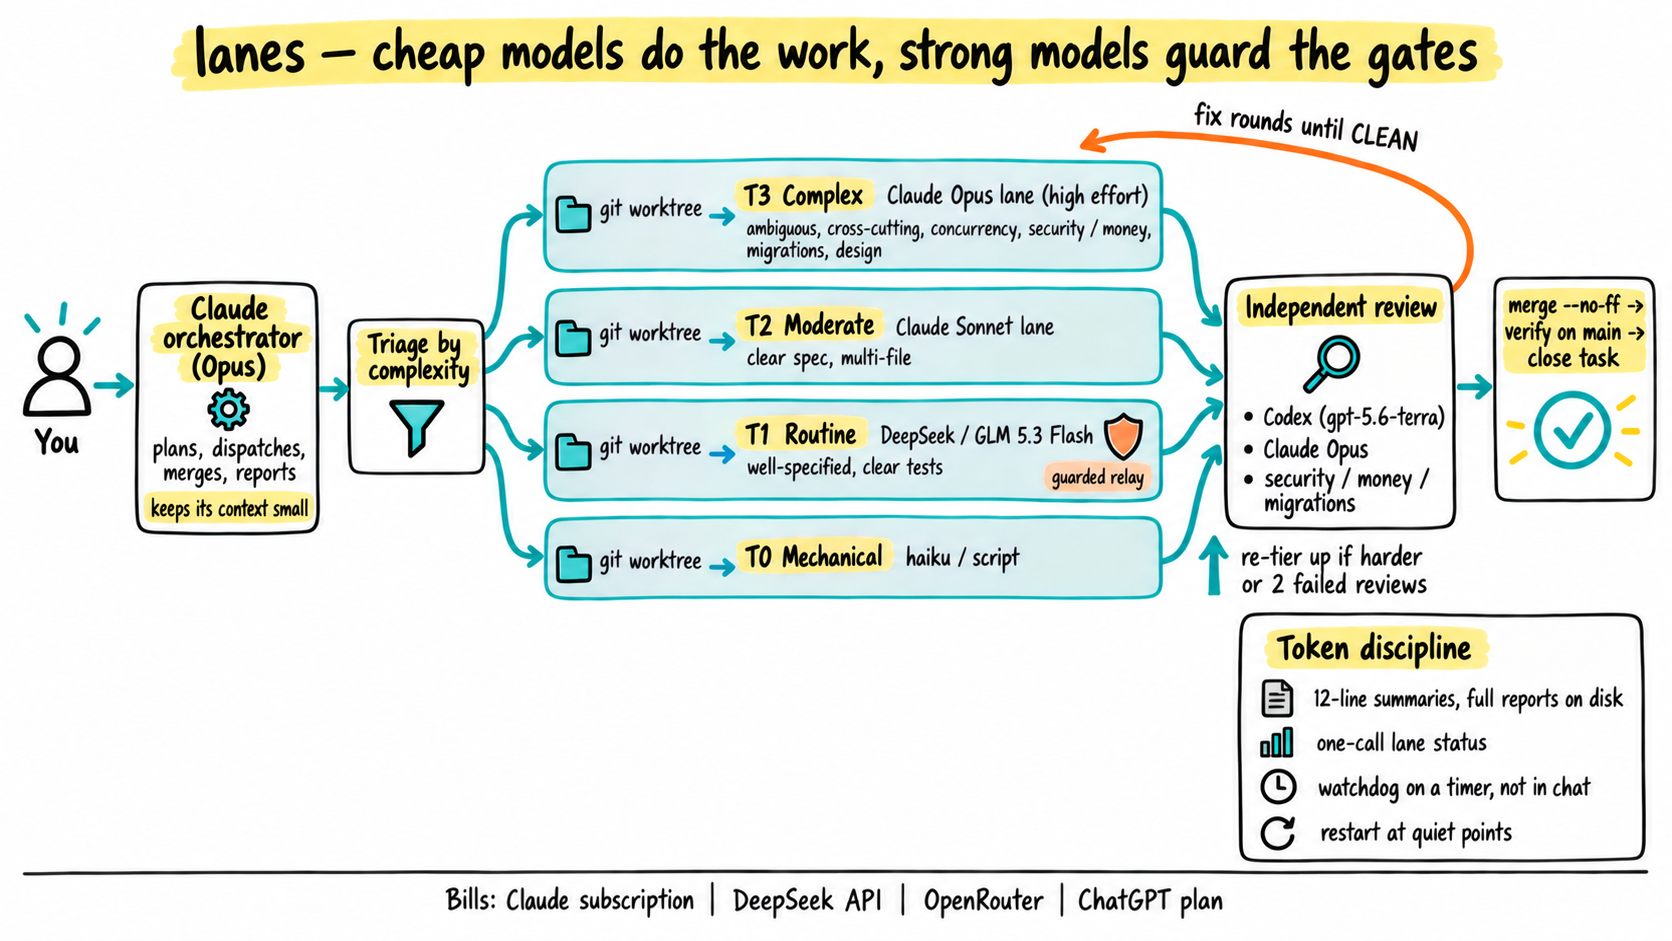
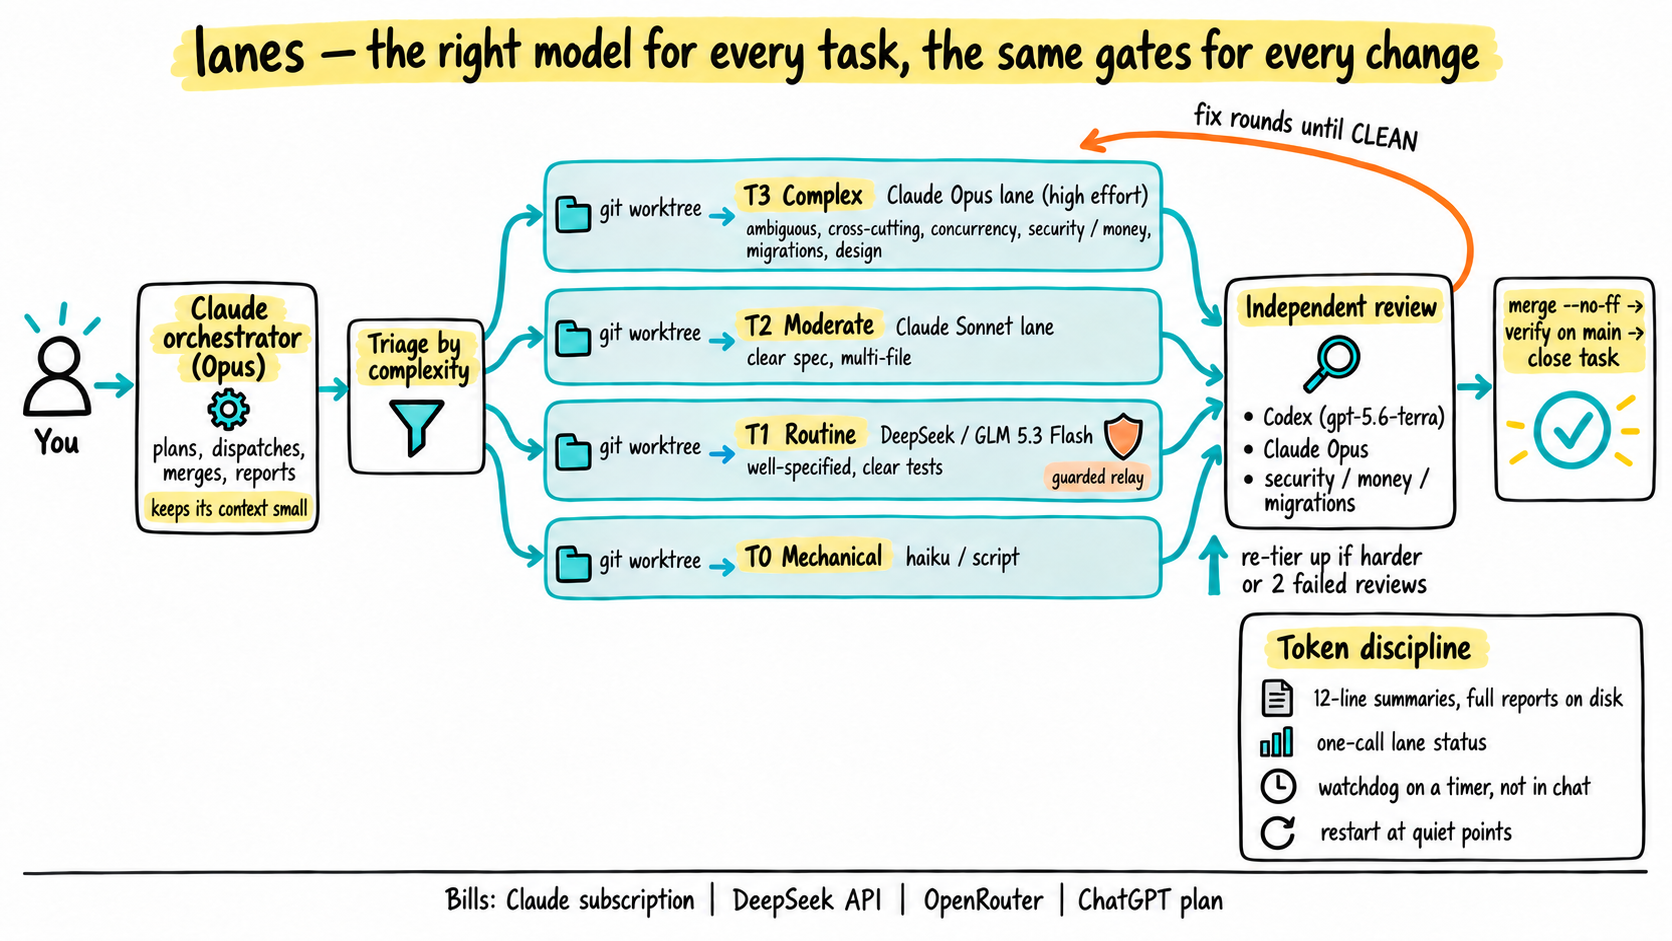
Site copy and infographic title follow complexity triage
Claude-Session: https://claude.ai/code/session_01QzDRDj8uRNkVmM86ry9EHc

diff --git a/docs/index.html b/docs/index.html
@@ -4,9 +4,9 @@
 <meta charset="utf-8">
 <meta name="viewport" content="width=device-width, initial-scale=1">
 <title>lanes · orchestration harness for Claude Code</title>
-<meta name="description" content="lanes is a Claude Code skill that runs your project in parallel git-worktree lanes. Cheap models do the work, strong models guard the gates.">
+<meta name="description" content="lanes is a Claude Code skill that triages every task by complexity and runs your project in parallel git-worktree lanes: Opus for complex work, Sonnet for moderate, DeepSeek or GLM for routine, Codex for reviews.">
 <meta property="og:title" content="lanes: a token-efficient orchestration harness for Claude Code">
-<meta property="og:description" content="Cheap models do the work. Strong models guard the gates.">
+<meta property="og:description" content="The right model for every task. The same gates for every change.">
 <meta property="og:type" content="website">
 <meta property="og:url" content="https://thebpandey.github.io/lanes/">
 <meta property="og:image" content="https://thebpandey.github.io/lanes/lanes-infographic.png">
@@ -260,7 +260,7 @@ footer p{margin:0}
     <div>
       <p class="eyebrow"><span>Claude Code skill</span><span>MIT licensed</span><span>Linux &amp; macOS</span></p>
       <h1 id="hero-title">lanes</h1>
-      <p class="pitch"><span class="w">Cheap models do the work.</span> <span class="g">Strong models guard the gates.</span></p>
+      <p class="pitch"><span class="w">The right model for every task.</span> <span class="g">The same gates for every change.</span></p>
       <p class="lede">A token-efficient orchestration harness that turns one Claude Code session into an orchestrator. It audits a project, even one left half-finished, plans the remaining work, and runs it in parallel lanes: each lane is a git worktree with one agent working in it.</p>
       <div class="ctas">
         <a class="btn btn-primary" href="https://github.com/thebpandey/lanes">
@@ -322,7 +322,7 @@ footer p{margin:0}
 
     <ul class="pillars">
       <li style="--c:var(--work)"><h3>Lanes are worktrees</h3><p>Each lane is a git worktree with one agent in it. Lanes run in parallel, up to a cap you choose (default 6 concurrent agents, reviews included).</p></li>
-      <li style="--c:var(--review)"><h3>Cheapest capable model</h3><p>Every job goes to the cheapest model that can do it well: Each task is triaged by complexity first: Opus for complex work from the start, Sonnet for moderate work, DeepSeek or GLM for routine work, and Codex for routine reviews.</p></li>
+      <li style="--c:var(--review)"><h3>Triage by complexity</h3><p>Every task gets a tier before dispatch, and the tier picks the model from the start: Opus for complex work, Sonnet for moderate work, DeepSeek or GLM for routine work, and Codex for routine reviews. Tasks only ever move up a tier.</p></li>
       <li style="--c:var(--guard)"><h3>Gates don't change</h3><p>Every change gets an independent review before merge, the author never reviews its own work, and merges are verified on the main branch.</p></li>
     </ul>
 
@@ -330,7 +330,7 @@ footer p{margin:0}
       <div>
         <h3>Per-task flow</h3>
         <ol class="flow">
-          <li><span><strong>Dev in a worktree</strong>, by the routed agent.</span></li>
+          <li><span><strong>Triage</strong> the task into a tier, then <strong>dev in a worktree</strong> with that tier's agent.</span></li>
           <li class="gate-step"><span><strong>Independent review.</strong> The reviewer is never the author.</span></li>
           <li class="gate-step"><span><strong>Fix rounds</strong> loop until the review is CLEAN.</span></li>
           <li><span><strong><code>git merge --no-ff</code></strong> into the main branch.</span></li>
@@ -340,9 +340,9 @@ footer p{margin:0}
         </ol>
       </div>
       <div class="aside">
-        <h3>Why the relay design</h3>
+        <h3>Why the relay design (T1 lanes)</h3>
         <p>A Claude Code subagent file can't point at another provider: it has no <code>baseUrl</code> field, and <code>model</code> only takes Claude models.</p>
-        <p>So each external model runs as a separate headless Claude Code process pointed at that provider's Anthropic-compatible API (<code>claude-via &lt;provider&gt;</code>). A small guarded relay subagent hands tasks to it.</p>
+        <p>So each external model (DeepSeek, GLM) runs as a separate headless Claude Code process pointed at that provider's Anthropic-compatible API (<code>claude-via &lt;provider&gt;</code>). A small guarded relay subagent hands tasks to it.</p>
         <p>A <code>PreToolUse</code> hook (<code>relay-guard</code>) blocks every command except the relay itself; without it, the small relay model does the task itself instead of delegating.</p>
         <p>Every run leaves a job record with the model that actually did the work.</p>
       </div>
@@ -412,18 +412,18 @@ footer p{margin:0}
     <div class="code">
       <div class="code-head"><span>bash · install</span><button class="copy" type="button" aria-label="Copy install commands">Copy</button></div>
 <pre><code>git clone https://github.com/thebpandey/lanes ~/.claude/skills/lanes
-bash ~/.claude/skills/lanes/install.sh            <span class="c"># installs relays, configs, and the deepseek/glm/codex subagents</span>
+bash ~/.claude/skills/lanes/install.sh            <span class="c"># installs relays, configs, and the opus-lane/sonnet-lane/deepseek/glm/codex subagents</span>
 bash ~/.claude/skills/lanes/install.sh --smoke    <span class="c"># optional: one tiny task through each provider</span>
 bash ~/.claude/skills/lanes/install.sh --watchdog <span class="c"># optional (Linux): timer that cleans orphaned agent work</span></code></pre>
     </div>
     <div class="grid-2">
       <div>
-        <p class="note"><b>Then restart Claude Code</b><span>so the <code>deepseek</code>, <code>glm</code> and <code>codex</code> subagents load. Until then, the direct commands work without a restart.</span></p>
+        <p class="note"><b>Then restart Claude Code</b><span>so the <code>opus-lane</code>, <code>sonnet-lane</code>, <code>deepseek</code>, <code>glm</code> and <code>codex</code> subagents load. Until then, the direct commands work without a restart.</span></p>
         <h3>What it installs</h3>
         <ul class="installs">
           <li>In <code>~/.local/bin</code>: <code>claude-via</code>, <code>claude-deepseek</code>, <code>claude-glm</code>, <code>model-relay</code>, <code>relay-guard</code> and <code>codex-review</code>.</li>
           <li><code>~/.claude/{deepseek,glm}.json</code>, which hold the base URL, the model and the <em>name</em> of the key variable.</li>
-          <li><code>~/.claude/agents/{deepseek,glm,codex}.md</code>.</li>
+          <li><code>~/.claude/agents/{opus-lane,sonnet-lane}.md</code>: tiered Claude lane coders (Opus at high effort, Sonnet at medium), and <code>~/.claude/agents/{deepseek,glm,codex}.md</code>: guarded relays.</li>
         </ul>
       </div>
       <div>
@@ -447,8 +447,8 @@ bash ~/.claude/skills/lanes/install.sh --watchdog <span class="c"># optional (Li
     <h2 id="use-title">Say it in any git project.</h2>
     <p class="intro">Start Claude Code in the project and talk to the orchestrator.</p>
     <ul class="cmds">
-      <li><span class="say">/lanes start</span><p>Audits the project (instructions, git history, worktrees, tracker), shows what's done, in progress, ready and blocked, asks a few setup questions one at a time, then runs the lanes.</p></li>
-      <li><span class="say">lane update</span><p>The active lanes, with agent, task, concrete progress and an estimated %.</p></li>
+      <li><span class="say">/lanes start</span><p>Audits the project (instructions, git history, worktrees, tracker), shows what's done, in progress, ready and blocked, triages each task into a tier, asks a few setup questions one at a time, then runs the lanes.</p></li>
+      <li><span class="say">lane update</span><p>The active lanes, with agent and tier, task, concrete progress and an estimated %.</p></li>
       <li><span class="say">lane update all</span><p>Every workstream task and its state.</p></li>
       <li><span class="say">pause lanes · resume the lanes</span><p>Safe pause notes per lane, and resuming into the same worktrees.</p></li>
     </ul>
@@ -485,7 +485,7 @@ cd &lt;worktree&gt; &amp;&amp; RELAY_WAIT_S=6000 codex-review main &lt; checklis
     <div class="code">
       <div class="code-head"><span>bash · uninstall</span><button class="copy" type="button" aria-label="Copy uninstall commands">Copy</button></div>
 <pre><code>rm -f ~/.local/bin/{claude-via,claude-deepseek,claude-glm,model-relay,relay-guard,codex-review}
-rm -f ~/.claude/{deepseek,glm}.json ~/.claude/agents/{deepseek,glm,codex}.md
+rm -f ~/.claude/{deepseek,glm}.json ~/.claude/agents/{deepseek,glm,codex,opus-lane,sonnet-lane}.md
 systemctl --user disable --now lanes-watchdog.timer 2&gt;/dev/null; rm -rf ~/.claude/skills/lanes</code></pre>
     </div>
   </div>
